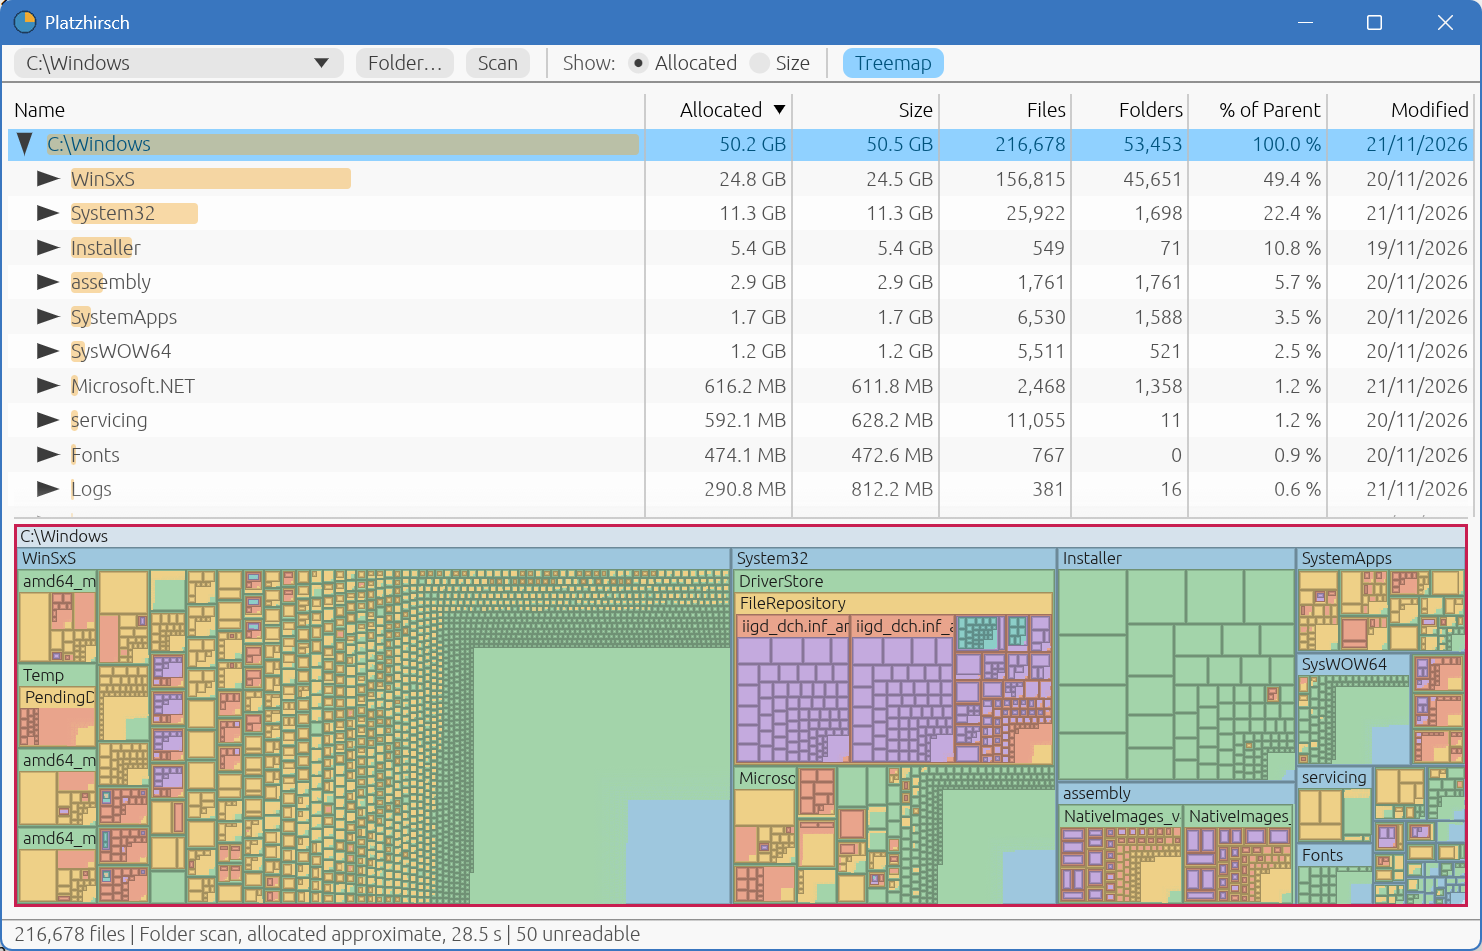
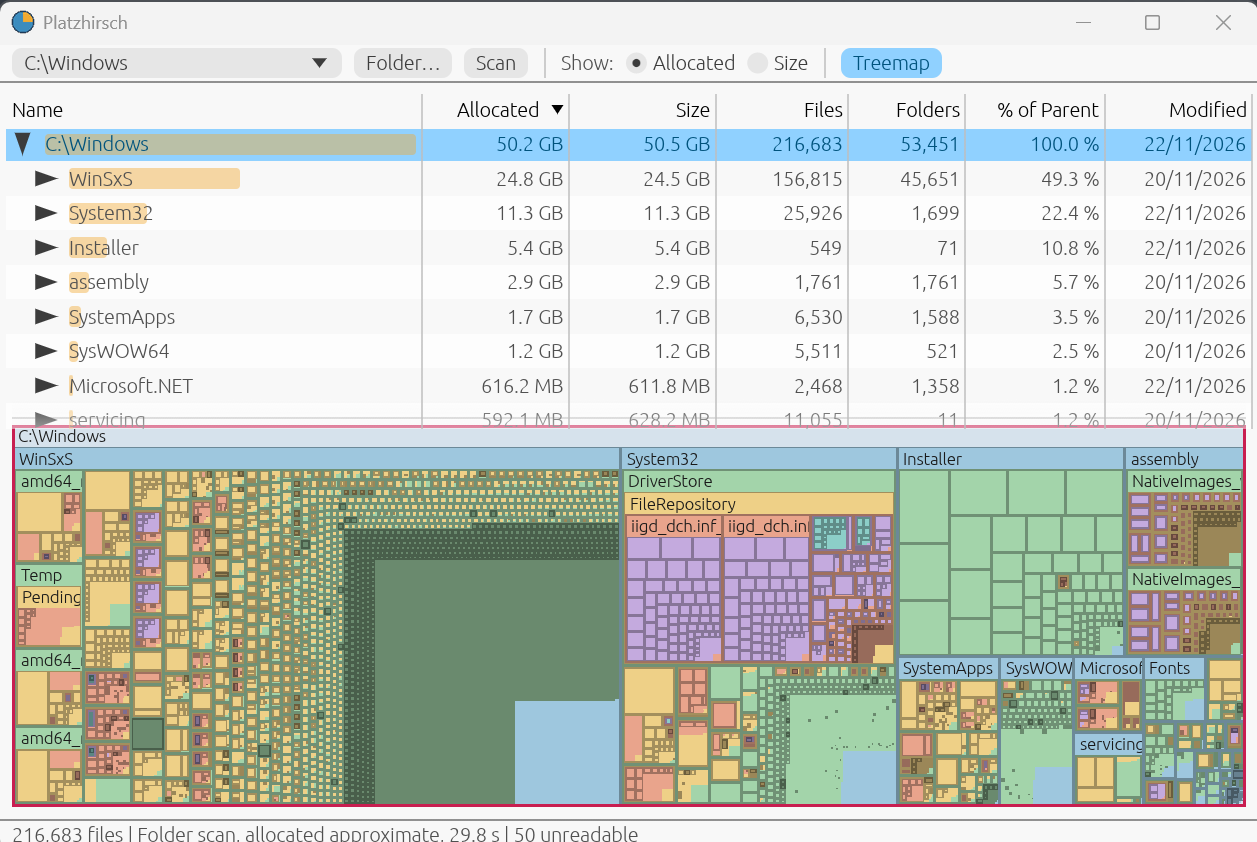
fix: a file link to a folder is refused, not scanned
The first CI run on a machine that may create symbolic links showed that
Windows does not resolve a symbolic link created as a file link that points
to a folder: the scan ends with "Not a folder". The test now expects that,
and the changelog no longer claims the opposite; the README lists it under
known limits.

README: numbers measured with 0.2.0 and a new screenshot.

diff --git a/tests/walk_tempdir.rs b/tests/walk_tempdir.rs
@@ -101,17 +101,33 @@ fn junction_root_is_scanned_as_its_target() {
 }
 
 #[test]
-fn symbolic_link_roots_are_scanned_as_their_target() {
+fn symbolic_link_root_is_scanned_as_its_target() {
     let tmp = tempfile::tempdir().unwrap();
     let target = link_target(tmp.path());
-    // A directory symbolic link, and a file-type one that points to a folder.
-    for (kind, name) in [(Some("/D"), "dirlink"), (None, "filelink")] {
-        let link = tmp.path().join(name);
-        if !mklink(kind, &link, &target) {
-            eprintln!("skipped {name}: this environment may not create symbolic links");
-            continue;
-        }
-        assert_scanned_as_target(&link);
+    let link = tmp.path().join("dirlink");
+    if !mklink(Some("/D"), &link, &target) {
+        eprintln!("skipped dirlink: this environment may not create symbolic links");
+        return;
+    }
+    assert_scanned_as_target(&link);
+}
+
+/// Windows does not resolve a symbolic link that was created as a file link
+/// but points to a folder (seen on the build server: the open that follows
+/// the link fails). Such a root is refused like a file, and nothing is listed.
+#[test]
+fn file_link_to_a_folder_is_refused_as_not_a_folder() {
+    let tmp = tempfile::tempdir().unwrap();
+    let target = link_target(tmp.path());
+    let link = tmp.path().join("filelink");
+    if !mklink(None, &link, &target) {
+        eprintln!("skipped filelink: this environment may not create symbolic links");
+        return;
+    }
+    match scan_walk(&link, &Progress::default()) {
+        Err(ScanError::Io(e)) => assert_eq!(e.kind(), std::io::ErrorKind::NotADirectory, "{e}"),
+        Err(e) => panic!("unexpected error: {e}"),
+        Ok(_) => panic!("a file link to a folder was scanned"),
     }
 }
 

diff --git a/src/scan/walk.rs b/src/scan/walk.rs
@@ -547,8 +547,9 @@ fn plan_root(given: Vec<u16>, first: LevelCheck, resolved: Option<Vec<u16>>) -> 
 /// access only, following links; `None` if that or the query fails.
 fn final_path(path: &[u16]) -> Option<Vec<u16>> {
     // No data access is requested, so no file content is read and no
-    // placeholder is hydrated. Without FILE_DIRECTORY_FILE, a file-type
-    // symbolic link that points to a folder can be opened as well.
+    // placeholder is hydrated. A symbolic link created as a file link that
+    // points to a folder is not resolved by Windows: this open fails, the
+    // path stays as given and the scan ends with "Not a folder".
     let handle = nt_open(
         path,
         FILE_READ_ATTRIBUTES | SYNCHRONIZE,

diff --git a/README.md b/README.md
@@ -7,7 +7,7 @@ folder tree with sizes and as a treemap.
 
 Platzhirsch reads the NTFS Master File Table directly instead of asking Windows for every
 folder one by one. On the development machine, a full scan of an NVMe drive with
-1.87 million entries takes two to three and a half seconds.
+1.88 million entries takes one to two and a half seconds.
 
 ![Platzhirsch main window: the folder table above, the treemap below](docs/screenshot.png)
 
@@ -57,15 +57,15 @@ dependencies. They are tripwires against an accidental change, not a proof.
 
 ## Measured
 
-Taken on 2026-11-21 and 2026-11-22 with the diagnostic program `bench`:
+Taken on 2026-11-22 with the diagnostic program `bench` of version 0.2.0:
 
 | | Result |
 |---|---|
-| Fast scan, NVMe drive, 1.87 million entries | 2.1 s and 3.4 s in two runs |
-| Deviation of "allocated" from the drive's used space | 0.36 % |
-| Memory after the scan | 147 MB |
-| Peak memory during the scan | 246 MB |
-| Fallback scan of the same drive, without administrator rights | 42 s |
+| Fast scan, NVMe drive, 1.88 million entries | 2.3 s and 1.2 s in two runs |
+| Deviation of "allocated" from the drive's used space | 0.23 % |
+| Memory after the scan | 150 MB |
+| Peak memory during the scan | 249 MB |
+| Fallback scan of the same drive, without administrator rights | 34 s |
 
 For a folder with 141,418 files, the fast scan and the fallback scan report the same
 file count and the same size.
@@ -142,6 +142,8 @@ The design document and the implementation plan are in
   whose parent cannot be listed. When the path goes through a link, Windows resolves the
   link before the folders behind it can be checked, so a link that points into an
   online-only folder can still make the provider fetch that folder's entry.
+- A symbolic link that was created as a file link but points to a folder is refused as a
+  scan target with "Not a folder". Windows does not resolve such a link either.
 - The program needs OpenGL 2 or newer. In some virtual machines and remote sessions it
   cannot start and says so.
 - Screen readers get the names of all controls and of each table row through the Windows

diff --git a/CHANGELOG.md b/CHANGELOG.md
@@ -75,9 +75,8 @@ and this project adheres to [Semantic Versioning](https://semver.org/spec/v2.0.0
   scan ends with an error instead of ending the program.
 - A Master File Table that is recorded as lying outside the drive is rejected as damaged
   instead of being read.
-- A link to a folder is scanned as the folder it points to. This now also holds for a
-  link that was created as a file-type link (not yet run on a machine that can create
-  such links).
+- A junction or directory symbolic link chosen as the scan target is scanned as the folder
+  it points to, also when the link sits higher up in the path.
 - Device paths such as `\\.\C:` are refused with the message "Device paths are not
   supported" instead of an unclear read error.
 - The check for online-only cloud folders now looks at every folder on the path of the
